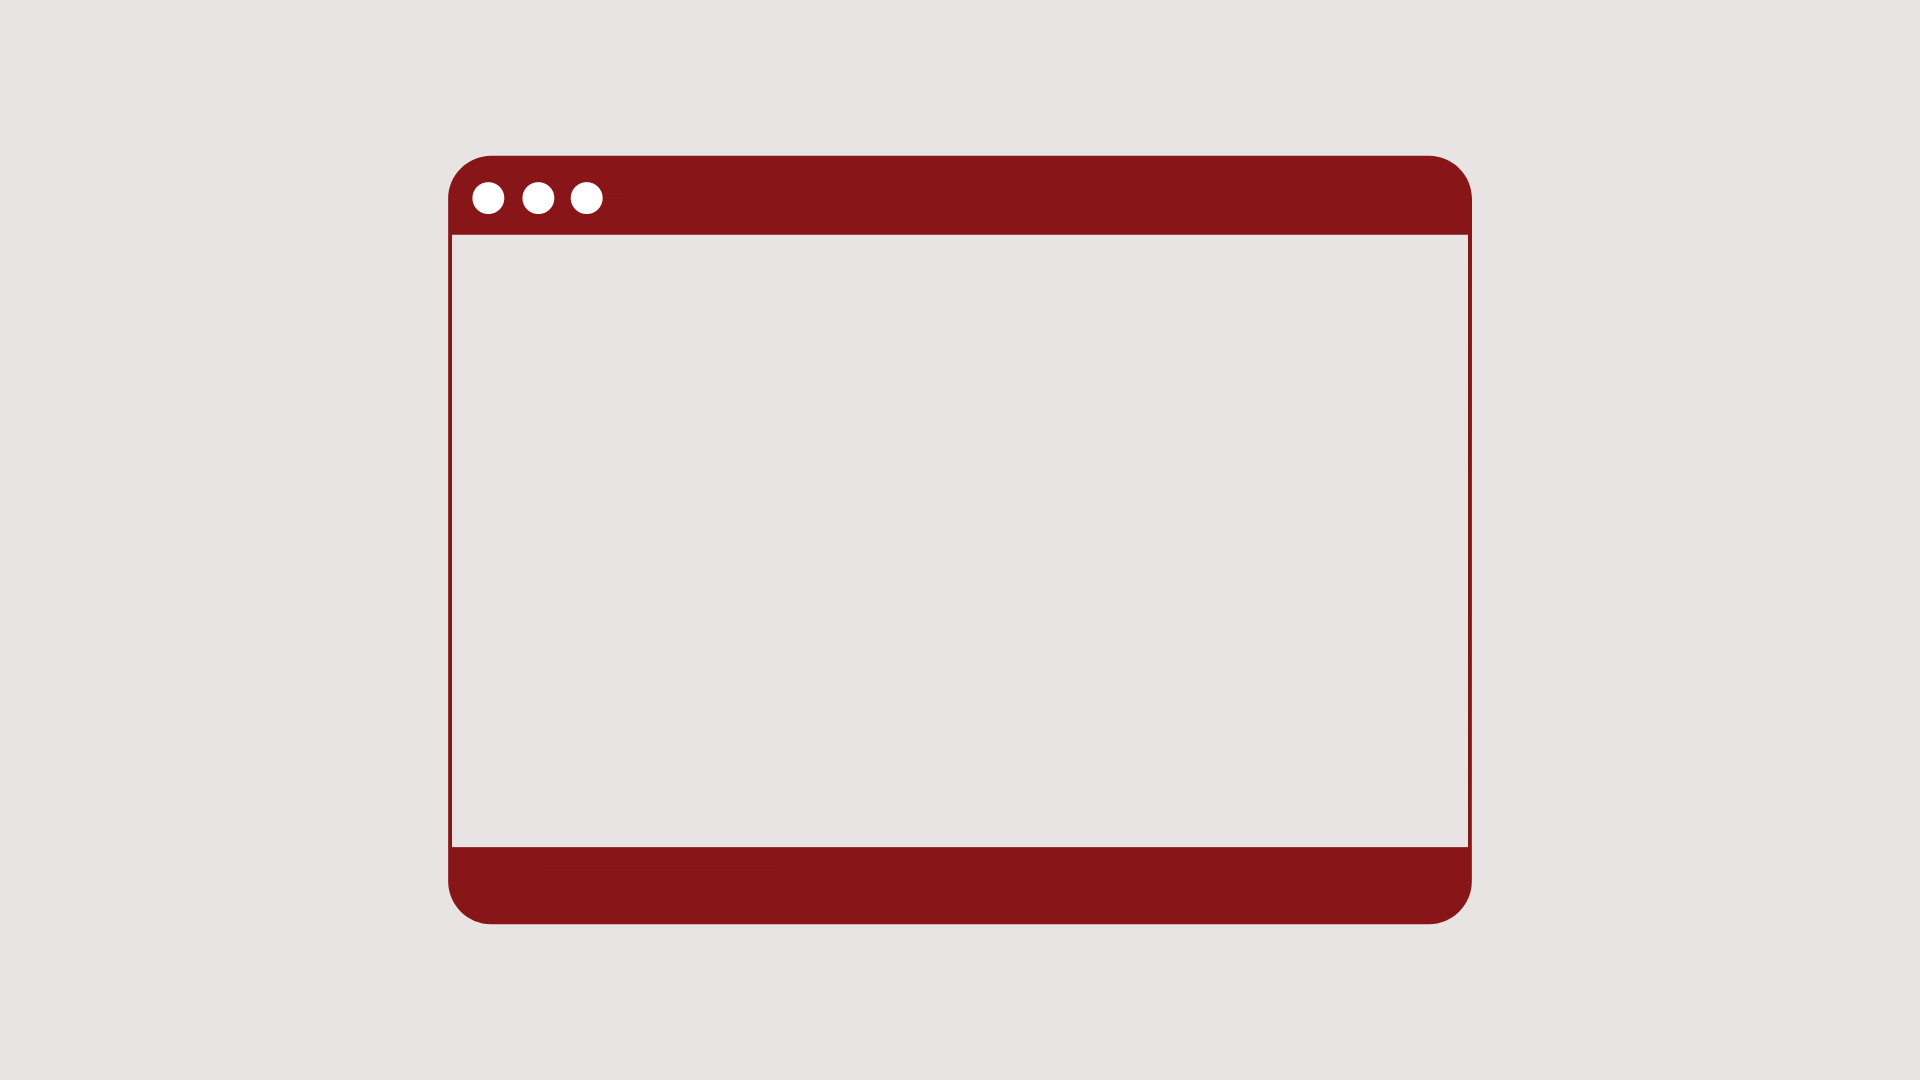
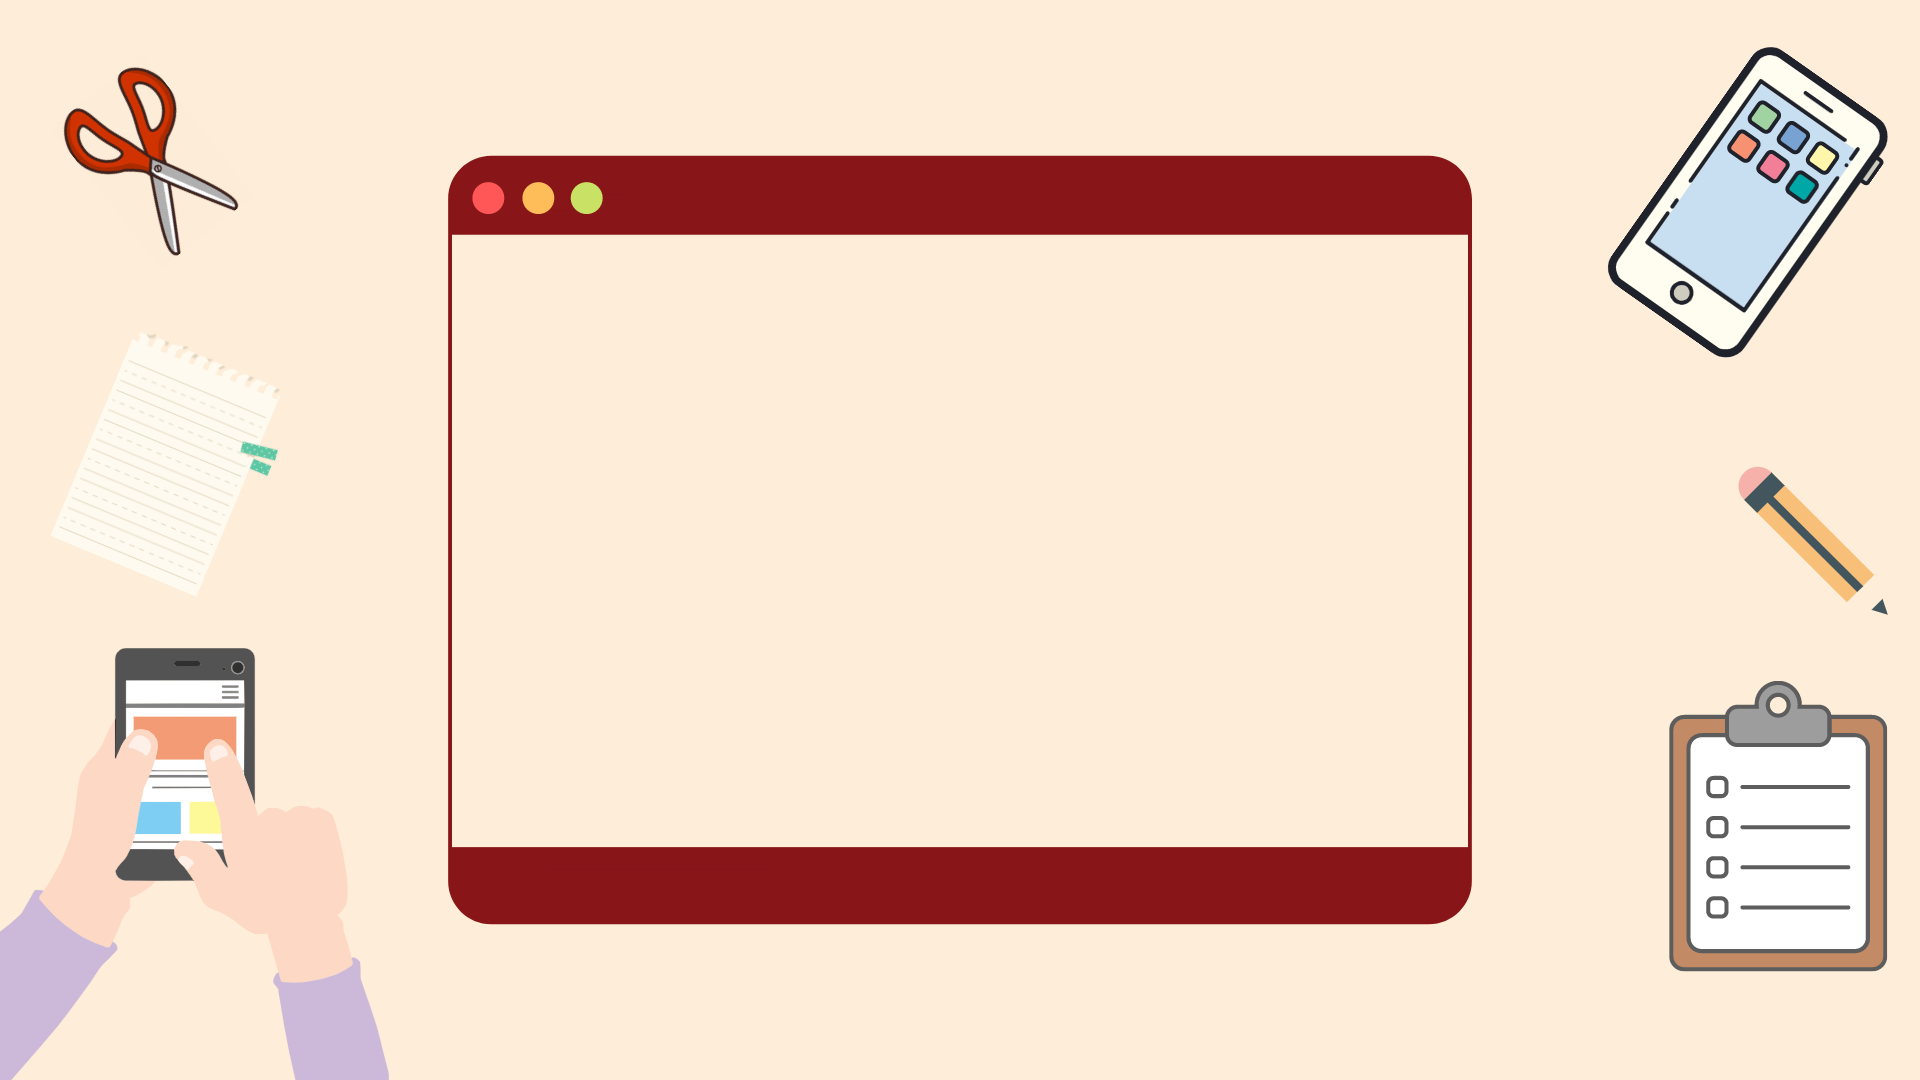
ปรับbgกับfront+แก้ไขนิดหน่อย

diff --git a/client/pages/Evaluation.vue b/client/pages/Evaluation.vue
@@ -37,7 +37,7 @@
                           <v-container fluid >
                               <v-col >
                                 <v-select v-model="results.divTag" :items="items" label="เลือกแผนกที่ต้องการประเมิน" outlined></v-select>
-                                <v-btn block large x-large color="#BC8E5D" dark @click.prevent="startQuiz()" class="font-weight-black">
+                                <v-btn block large x-large outlined color="#BC8E5D" dark @click.prevent="startQuiz()" class="font-weight-black">
                                     เริ่มทำการประเมิน
                                 </v-btn>
                               </v-col>
@@ -418,10 +418,10 @@ export default {
   position: absolute;
 }
 .titlehd{
+  font-family: 'Acme', sans-serif;
   font-size: 40px;
-  font-weight: bold;
-  color: #881518;
-  text-shadow: 2px 2px 5px rgb(121, 118, 118);
+  color: #000000;
+  text-shadow: 2px 2px 5px rgb(128, 124, 124);
 }
 
 /* Portrait */
